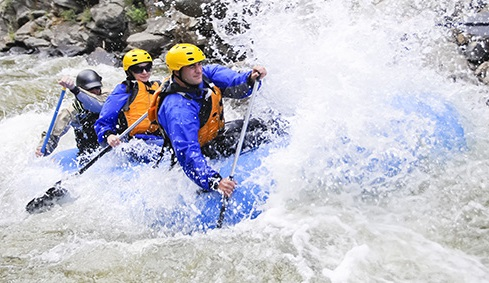
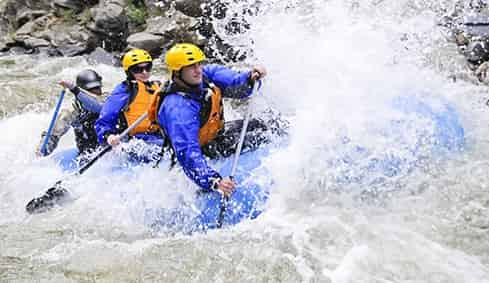
Lowered the webpage weight by reducing image quality.

diff --git a/wwr/styles/rafting.css b/wwr/styles/rafting.css
@@ -25,7 +25,6 @@ header {
 .header-links a {
     padding: 10px;
     margin: 0;
-    width: 10%;
 }
 
 .center-image {
@@ -92,7 +91,6 @@ article {
     float: right;
     width: 125px;
 }
-
 
 .hero {
     position: relative;
